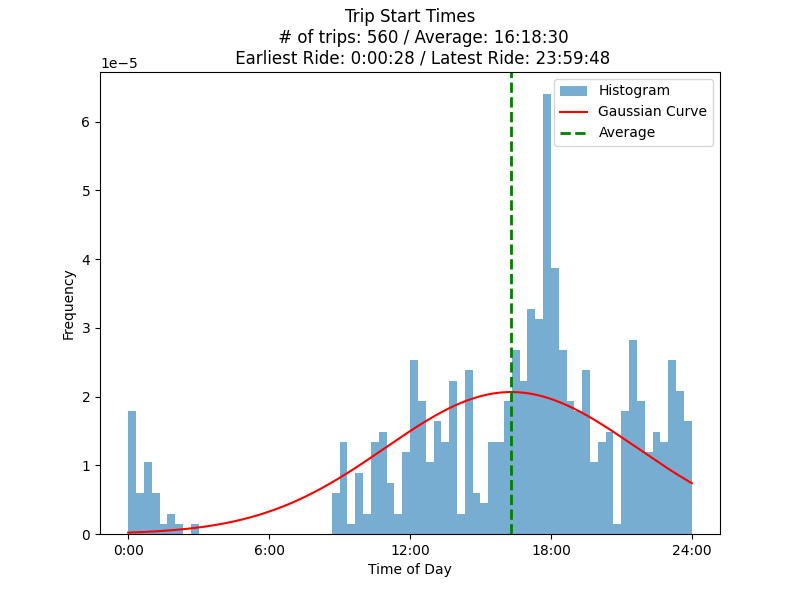
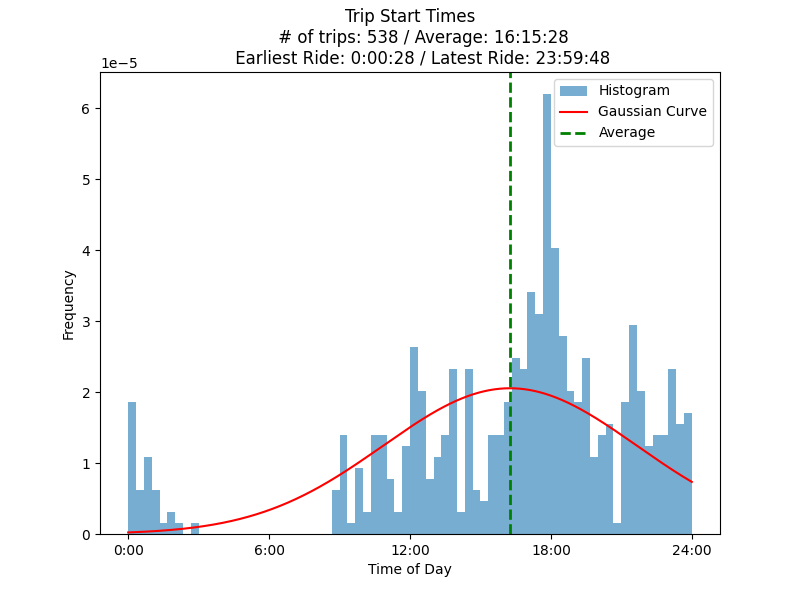
Reorganized the present_data file and cost calculations now account for the added cost of ebike rides

diff --git a/Outputs/combined_heatmap_map.html b/Outputs/combined_heatmap_map.html
@@ -25,7 +25,7 @@
             <meta name="viewport" content="width=device-width,
                 initial-scale=1.0, maximum-scale=1.0, user-scalable=no" />
             <style>
-                #map_fb3a0c0f109c157dedca00d0e194b6b5 {
+                #map_df10dd8c4897b309f26622da82e774a0 {
                     position: relative;
                     width: 100.0%;
                     height: 100.0%;
@@ -40,14 +40,14 @@
 <body>
     
     
-            <div class="folium-map" id="map_fb3a0c0f109c157dedca00d0e194b6b5" ></div>
+            <div class="folium-map" id="map_df10dd8c4897b309f26622da82e774a0" ></div>
         
 </body>
 <script>
     
     
-            var map_fb3a0c0f109c157dedca00d0e194b6b5 = L.map(
-                "map_fb3a0c0f109c157dedca00d0e194b6b5",
+            var map_df10dd8c4897b309f26622da82e774a0 = L.map(
+                "map_df10dd8c4897b309f26622da82e774a0",
                 {
                     center: [43.653339189811796, -79.36496897399171],
                     crs: L.CRS.EPSG3857,
@@ -61,16 +61,16 @@
 
         
     
-            var tile_layer_54c983141e580d4cc1b5f8ba8b19c42b = L.tileLayer(
+            var tile_layer_e388a10426aa7edf72e822d2c266f63f = L.tileLayer(
                 "https://{s}.tile.openstreetmap.org/{z}/{x}/{y}.png",
                 {"attribution": "Data by \u0026copy; \u003ca target=\"_blank\" href=\"http://openstreetmap.org\"\u003eOpenStreetMap\u003c/a\u003e, under \u003ca target=\"_blank\" href=\"http://www.openstreetmap.org/copyright\"\u003eODbL\u003c/a\u003e.", "detectRetina": false, "maxNativeZoom": 18, "maxZoom": 18, "minZoom": 0, "noWrap": false, "opacity": 1, "subdomains": "abc", "tms": false}
-            ).addTo(map_fb3a0c0f109c157dedca00d0e194b6b5);
+            ).addTo(map_df10dd8c4897b309f26622da82e774a0);
         
     
-            var heat_map_b7bea53586974027c22b7d22a11fb946 = L.heatLayer(
-                [[43.653339189811796, -79.36496897399171, 21], [43.6572018, -79.3743738, 46], [43.6541862, -79.3652666, 20], [43.6466792, -79.3827709, 43], [43.6620697, -79.3668149, 10], [43.6505369, -79.377921, 296], [43.669115, -79.3793807, 2], [43.65690292756406, -79.37854144306614, 2], [43.6628854, -79.3835168, 2], [43.66611012212478, -79.40667964746912, 3], [43.6390011, -79.4008379, 11], [43.6641536, -79.3678238, 4], [43.648991509352406, -79.37863025118989, 5], [43.65240097833613, -79.36738658196664, 9], [51.5283706, -0.1157698, 3], [43.64516208005284, -79.36546389057112, 2], [43.63266385, -79.3242128314069, 8], [43.66874924814692, -79.29138409914165, 2], [43.6551426, -79.3659375, 15], [34.7529385, -79.489493, 6], [43.636393749999996, -79.41986097422762, 2], [43.6518605, -79.3659319, 16], [43.63739613451603, -79.40612171600311, 117], [43.6348661579098, -79.40907311509858, 1], [43.66432575, -79.40281505, 129], [43.65013976200553, -79.38611012416523, 7], [43.65819629206575, -79.37237783154258, 1], [43.644871753471605, -79.40304417522952, 2], [43.6394636, -79.383704, 1], [43.650449871107995, -79.38457274639377, 2], [43.6658944, -79.4010004, 3], [54.5833187, -0.9720134, 21], [43.6499931, -79.3912123, 3], [43.64099114188913, -79.38776886173602, 3], [43.639157, -79.3996475, 13], [43.6365828, -79.4001581, 18], [34.0560576, -118.23625350485408, 3], [43.6626555, -79.3766333, 4], [43.64854585487397, -79.38090593290008, 16], [43.6501395, -79.3725329, 7], [43.655548, -79.3835122, 8], [43.645224830874064, -79.38319791722124, 4], [43.6552868, -79.3805856, 15], [43.64873517436065, -79.37961624630012, 4], [43.6414535, -79.4145602, 4], [43.66340035, -79.40217507486187, 21], [43.667122750000004, -79.3995476, 8], [43.6623765, -79.3817285, 4], [43.6692297, -79.3876861, 1], [43.64118243343749, -79.3768608743376, 4], [43.6453549, -79.4125613, 1], [43.661366, -79.378982, 2], [43.6637002, -79.3870773, 1], [43.64902635, -79.3954413, 1], [-45.8605135, 170.5112471, 1], [43.6527944, -79.3779172, 4], [43.6520037, -79.377527, 13], [43.251678299999995, -79.8514515108541, 15], [43.6444862, -79.39967139999999, 5], [43.6658944, -79.4010004, 4], [43.6526421, -79.374142, 2], [43.90674, -78.8164141, 1], [43.64161246574678, -79.3754182841772, 1], [43.64172871936933, -79.37709286336468, 4], [43.66613335, -79.37366146529753, 1], [43.66045454260344, -79.38550593841289, 2], [43.65493557358157, -79.39869213994943, 1], [43.638155708522774, -79.3975186737966, 6], [44.5808971, -79.8723842, 3], [43.65611690458023, -79.38161080753405, 1], [43.6501014, -79.3964539, 3], [43.64996315, -79.37399005, 5], [43.641767, -79.396077, 3], [43.6576943, -79.39551007539433, 2], [43.6472034, -79.3799642, 7], [43.6642354, -79.3982272, 2], [43.660438420267894, -79.39693272085542, 3], [43.66208615, -79.397858, 3], [43.66009523286462, -79.39868570406395, 5], [43.00477145, -81.22050520796864, 4], [43.6496399, -79.3936198, 2], [43.6548199, -79.3882736, 3], [43.63700985, -79.3437950730717, 2], [43.666616252698816, -79.30059532683305, 1], [43.67671389584629, -79.35643003310071, 2], [43.65111315, -79.39736715412994, 2], [43.63558375535192, -79.4035811953714, 4], [43.6455956, -79.39412436897669, 2], [43.66583835, -79.40501209221284, 2], [43.639874571108564, -79.39563486173606, 2], [53.7877454, -1.7514365, 2], [43.64640455, -79.39898661929963, 4], [43.66745738887322, -79.32940389141045, 1], [43.655252, -79.4188531, 1], [43.5980328, -79.5167264, 2], [43.64140372780608, -79.39319906173591, 1], [43.6379645, -79.3874561, 1], [43.6465302, -79.39764436661751, 1], [43.63916584218743, -79.41141587522984, 1], [43.65748307629533, -79.3810135942689, 3], [43.6703553, -79.3869414, 1], [43.6559995, -79.3705289, 1], [43.65646866092935, -79.38791808040006, 2], [43.65393453375615, -79.3983147057624, 1], [43.6546438, -79.3697278, 1], [43.6489719, -79.385741, 5], [43.65267522851995, -79.37409513697031, 1], [-39.6405566, 176.8526142, 1], [47.6077404, -122.3359401, 2], [43.64163506354045, -79.3809951194067, 1], [43.6465631, -79.4067831, 2], [43.65532958729307, -79.39185752239844, 3], [43.6699553, -79.2976701, 1], [44.8303203, -87.399019, 1]],
+            var heat_map_fb9e11d3337d0bf254588049f76b3454 = L.heatLayer(
+                [[43.653339189811796, -79.36496897399171, 21], [43.6572018, -79.3743738, 44], [43.6541862, -79.3652666, 20], [43.6466792, -79.3827709, 42], [43.6620697, -79.3668149, 10], [43.65341869886721, -79.36650162714241, 110], [43.669115, -79.3793807, 2], [43.65690292756406, -79.37854144306614, 2], [43.6628854, -79.3835168, 2], [43.66611012212478, -79.40667964746912, 3], [43.6390011, -79.4008379, 11], [43.6641536, -79.3678238, 4], [43.648991509352406, -79.37863025118989, 5], [43.65240097833613, -79.36738658196664, 9], [51.5283706, -0.1157698, 3], [43.64516208005284, -79.36546389057112, 2], [43.63266385, -79.3242128314069, 8], [43.66874924814692, -79.29138409914165, 2], [43.6551426, -79.3659375, 15], [34.7529385, -79.489493, 6], [43.636393749999996, -79.41986097422762, 2], [43.6518605, -79.3659319, 16], [43.63739613451603, -79.40612171600311, 110], [43.6348661579098, -79.40907311509858, 1], [43.66432575, -79.40281505, 110], [43.65013976200553, -79.38611012416523, 7], [43.65819629206575, -79.37237783154258, 1], [43.644871753471605, -79.40304417522952, 2], [43.6394636, -79.383704, 1], [43.650449871107995, -79.38457274639377, 2], [43.6640665, -79.4002692, 3], [54.5833187, -0.9720134, 21], [43.6499931, -79.3912123, 2], [43.64099114188913, -79.38776886173602, 3], [43.639157, -79.3996475, 13], [43.6365828, -79.4001581, 18], [34.0560576, -118.23625350485408, 2], [43.6626555, -79.3766333, 4], [43.64854585487397, -79.38090593290008, 16], [43.6501395, -79.3725329, 7], [43.655548, -79.3835122, 6], [43.645224830874064, -79.38319791722124, 4], [43.6552868, -79.3805856, 15], [43.64873517436065, -79.37961624630012, 4], [43.6414535, -79.4145602, 4], [43.6628094, -79.40204431192383, 16], [43.667122750000004, -79.3995476, 8], [43.6623765, -79.3817285, 4], [43.6692297, -79.3876861, 1], [43.64118243343749, -79.3768608743376, 4], [43.6453549, -79.4125613, 1], [43.661366, -79.378982, 2], [43.6637002, -79.3870773, 1], [43.64902635, -79.3954413, 1], [-45.8605135, 170.5112471, 1], [43.6527944, -79.3779172, 4], [43.6535163, -79.3685236, 13], [43.6515807, -79.3776002, 15], [43.6444862, -79.39967139999999, 5], [43.6658944, -79.4010004, 4], [43.6526421, -79.374142, 2], [43.651419, -79.37029111995278, 1], [43.64161246574678, -79.3754182841772, 1], [43.64172871936933, -79.37709286336468, 4], [43.66613335, -79.37366146529753, 1], [43.66045454260344, -79.38550593841289, 2], [43.65493557358157, -79.39869213994943, 1], [43.638155708522774, -79.3975186737966, 6], [44.5796932, -79.875092, 3], [43.65611690458023, -79.38161080753405, 1], [43.6501014, -79.3964539, 3], [43.64996315, -79.37399005, 5], [43.641767, -79.396077, 3], [43.6576943, -79.39551007539433, 2], [43.6472034, -79.3799642, 7], [43.6642354, -79.3982272, 2], [43.660438420267894, -79.39693272085542, 3], [43.66208615, -79.397858, 3], [43.66009523286462, -79.39868570406395, 5], [43.00477145, -81.22050520796864, 4], [43.6496399, -79.3936198, 1], [43.6548199, -79.3882736, 3], [43.63700985, -79.3437950730717, 2], [43.666616252698816, -79.30059532683305, 1], [43.67671389584629, -79.35643003310071, 2], [43.65111315, -79.39736715412994, 2], [43.63558375535192, -79.4035811953714, 4], [43.6455956, -79.39412436897669, 2], [43.66583835, -79.40501209221284, 2], [43.66745738887322, -79.32940389141045, 1], [43.655252, -79.4188531, 1], [43.5980328, -79.5167264, 2], [43.64140372780608, -79.39319906173591, 1], [43.6379645, -79.3874561, 1], [43.6465302, -79.39764436661751, 1], [43.63916584218743, -79.41141587522984, 1], [43.65748307629533, -79.3810135942689, 3], [43.6703553, -79.3869414, 1], [43.6559995, -79.3705289, 1], [43.65646866092935, -79.38791808040006, 2], [43.65393453375615, -79.3983147057624, 1], [43.6546438, -79.3697278, 1], [43.6489719, -79.385741, 5], [43.65267522851995, -79.37409513697031, 1], [-39.6405566, 176.8526142, 1], [47.6077404, -122.3359401, 2], [43.64163506354045, -79.3809951194067, 1], [43.6465631, -79.4067831, 2], [43.65532958729307, -79.39185752239844, 3], [43.6699553, -79.2976701, 1], [44.8303203, -87.399019, 1]],
                 {"blur": 15, "maxZoom": 18, "minOpacity": 0.5, "radius": 25}
-            ).addTo(map_fb3a0c0f109c157dedca00d0e194b6b5);
+            ).addTo(map_df10dd8c4897b309f26622da82e774a0);
         
 </script>
 </html>

diff --git a/Outputs/end_heatmap_map.html b/Outputs/end_heatmap_map.html
@@ -25,7 +25,7 @@
             <meta name="viewport" content="width=device-width,
                 initial-scale=1.0, maximum-scale=1.0, user-scalable=no" />
             <style>
-                #map_82e9ceabed33051a61551133472e41fa {
+                #map_d43fd230556790ddaa0819c77ac069cc {
                     position: relative;
                     width: 100.0%;
                     height: 100.0%;
@@ -40,14 +40,14 @@
 <body>
     
     
-            <div class="folium-map" id="map_82e9ceabed33051a61551133472e41fa" ></div>
+            <div class="folium-map" id="map_d43fd230556790ddaa0819c77ac069cc" ></div>
         
 </body>
 <script>
     
     
-            var map_82e9ceabed33051a61551133472e41fa = L.map(
-                "map_82e9ceabed33051a61551133472e41fa",
+            var map_d43fd230556790ddaa0819c77ac069cc = L.map(
+                "map_d43fd230556790ddaa0819c77ac069cc",
                 {
                     center: [43.6572018, -79.3743738],
                     crs: L.CRS.EPSG3857,
@@ -61,16 +61,16 @@
 
         
     
-            var tile_layer_a44e6a2d659c35877664bb66359255e7 = L.tileLayer(
+            var tile_layer_5a04c58d4dc0598156fb5b9c82450992 = L.tileLayer(
                 "https://{s}.tile.openstreetmap.org/{z}/{x}/{y}.png",
                 {"attribution": "Data by \u0026copy; \u003ca target=\"_blank\" href=\"http://openstreetmap.org\"\u003eOpenStreetMap\u003c/a\u003e, under \u003ca target=\"_blank\" href=\"http://www.openstreetmap.org/copyright\"\u003eODbL\u003c/a\u003e.", "detectRetina": false, "maxNativeZoom": 18, "maxZoom": 18, "minZoom": 0, "noWrap": false, "opacity": 1, "subdomains": "abc", "tms": false}
-            ).addTo(map_82e9ceabed33051a61551133472e41fa);
+            ).addTo(map_d43fd230556790ddaa0819c77ac069cc);
         
     
-            var heat_map_d1b85087f28c23505af0d500c2ff7064 = L.heatLayer(
-                [[43.6572018, -79.3743738, 26], [43.653339189811796, -79.36496897399171, 7], [43.6466792, -79.3827709, 16], [43.6505369, -79.377921, 138], [43.6620697, -79.3668149, 5], [43.66745738887322, -79.32940389141045, 1], [43.64854585487397, -79.38090593290008, 14], [54.5833187, -0.9720134, 9], [43.65690292756406, -79.37854144306614, 1], [43.6628854, -79.3835168, 1], [43.66611012212478, -79.40667964746912, 2], [43.6390011, -79.4008379, 7], [43.63739613451603, -79.40612171600311, 67], [43.6641536, -79.3678238, 2], [43.6541862, -79.3652666, 11], [43.648991509352406, -79.37863025118989, 3], [51.5283706, -0.1157698, 2], [43.64516208005284, -79.36546389057112, 1], [43.63266385, -79.3242128314069, 4], [43.66874924814692, -79.29138409914165, 1], [43.655252, -79.4188531, 1], [43.6518605, -79.3659319, 13], [34.7529385, -79.489493, 2], [43.5980328, -79.5167264, 2], [43.65240097833613, -79.36738658196664, 7], [43.6472034, -79.3799642, 4], [43.64140372780608, -79.39319906173591, 1], [43.66432575, -79.40281505, 48], [43.65013976200553, -79.38611012416523, 6], [43.6379645, -79.3874561, 1], [43.650449871107995, -79.38457274639377, 1], [43.6465302, -79.39764436661751, 1], [43.6499931, -79.3912123, 1], [43.66340035, -79.40217507486187, 8], [43.6365828, -79.4001581, 11], [43.6552868, -79.3805856, 7], [43.639157, -79.3996475, 9], [34.0560576, -118.23625350485408, 2], [43.6626555, -79.3766333, 1], [43.6501395, -79.3725329, 4], [43.63558375535192, -79.4035811953714, 2], [43.6520037, -79.377527, 12], [43.63916584218743, -79.41141587522984, 1], [43.6551426, -79.3659375, 11], [43.645224830874064, -79.38319791722124, 1], [43.64873517436065, -79.37961624630012, 3], [43.6414535, -79.4145602, 2], [43.65748307629533, -79.3810135942689, 3], [43.661366, -79.378982, 1], [43.6548199, -79.3882736, 1], [43.6527944, -79.3779172, 1], [43.6703553, -79.3869414, 1], [43.64118243343749, -79.3768608743376, 2], [43.6559995, -79.3705289, 1], [43.66208615, -79.397858, 2], [43.6444862, -79.39967139999999, 1], [43.6658944, -79.4010004, 2], [43.65646866092935, -79.38791808040006, 2], [43.6623765, -79.3817285, 1], [43.65393453375615, -79.3983147057624, 1], [43.6526421, -79.374142, 1], [43.6546438, -79.3697278, 1], [43.6489719, -79.385741, 5], [43.65267522851995, -79.37409513697031, 1], [-39.6405566, 176.8526142, 1], [43.251678299999995, -79.8514515108541, 5], [43.64996315, -79.37399005, 3], [43.64172871936933, -79.37709286336468, 1], [43.66045454260344, -79.38550593841289, 1], [43.6501014, -79.3964539, 2], [43.638155708522774, -79.3975186737966, 3], [47.6077404, -122.3359401, 2], [43.641767, -79.396077, 1], [43.64163506354045, -79.3809951194067, 1], [43.6576943, -79.39551007539433, 1], [43.6642354, -79.3982272, 1], [43.66009523286462, -79.39868570406395, 3], [43.660438420267894, -79.39693272085542, 1], [43.00477145, -81.22050520796864, 2], [43.6465631, -79.4067831, 2], [43.655548, -79.3835122, 6], [43.65532958729307, -79.39185752239844, 3], [43.63700985, -79.3437950730717, 1], [43.6699553, -79.2976701, 1], [43.67671389584629, -79.35643003310071, 1], [43.667122750000004, -79.3995476, 1], [43.65111315, -79.39736715412994, 1], [44.5808971, -79.8723842, 1], [43.6455956, -79.39412436897669, 1], [44.8303203, -87.399019, 1], [43.66583835, -79.40501209221284, 1], [43.639874571108564, -79.39563486173606, 1], [43.6496399, -79.3936198, 1], [53.7877454, -1.7514365, 1], [43.64640455, -79.39898661929963, 2]],
+            var heat_map_9a840321f54e9ec2ed61c42191d7b24b = L.heatLayer(
+                [[43.6572018, -79.3743738, 25], [43.653339189811796, -79.36496897399171, 7], [43.6466792, -79.3827709, 16], [43.65341869886721, -79.36650162714241, 41], [43.6620697, -79.3668149, 5], [43.66745738887322, -79.32940389141045, 1], [43.64854585487397, -79.38090593290008, 14], [54.5833187, -0.9720134, 9], [43.65690292756406, -79.37854144306614, 1], [43.6628854, -79.3835168, 1], [43.66611012212478, -79.40667964746912, 2], [43.6390011, -79.4008379, 7], [43.63739613451603, -79.40612171600311, 41], [43.6641536, -79.3678238, 2], [43.6541862, -79.3652666, 11], [43.648991509352406, -79.37863025118989, 3], [51.5283706, -0.1157698, 2], [43.64516208005284, -79.36546389057112, 1], [43.63266385, -79.3242128314069, 4], [43.66874924814692, -79.29138409914165, 1], [43.655252, -79.4188531, 1], [43.6518605, -79.3659319, 13], [34.7529385, -79.489493, 2], [43.5980328, -79.5167264, 2], [43.65240097833613, -79.36738658196664, 7], [43.6472034, -79.3799642, 4], [43.64140372780608, -79.39319906173591, 1], [43.66432575, -79.40281505, 41], [43.65013976200553, -79.38611012416523, 6], [43.6379645, -79.3874561, 1], [43.650449871107995, -79.38457274639377, 1], [43.6465302, -79.39764436661751, 1], [43.6499931, -79.3912123, 1], [43.6628094, -79.40204431192383, 6], [43.6365828, -79.4001581, 11], [43.6552868, -79.3805856, 7], [43.639157, -79.3996475, 9], [34.0560576, -118.23625350485408, 1], [43.6626555, -79.3766333, 1], [43.6501395, -79.3725329, 4], [43.63558375535192, -79.4035811953714, 2], [43.6535163, -79.3685236, 12], [43.63916584218743, -79.41141587522984, 1], [43.6551426, -79.3659375, 11], [43.645224830874064, -79.38319791722124, 1], [43.64873517436065, -79.37961624630012, 3], [43.6414535, -79.4145602, 2], [43.65748307629533, -79.3810135942689, 3], [43.661366, -79.378982, 1], [43.6548199, -79.3882736, 1], [43.6527944, -79.3779172, 1], [43.6703553, -79.3869414, 1], [43.64118243343749, -79.3768608743376, 2], [43.6559995, -79.3705289, 1], [43.66208615, -79.397858, 2], [43.6444862, -79.39967139999999, 1], [43.6658944, -79.4010004, 2], [43.65646866092935, -79.38791808040006, 2], [43.6623765, -79.3817285, 1], [43.65393453375615, -79.3983147057624, 1], [43.6526421, -79.374142, 1], [43.6546438, -79.3697278, 1], [43.6489719, -79.385741, 5], [43.65267522851995, -79.37409513697031, 1], [-39.6405566, 176.8526142, 1], [43.6515807, -79.3776002, 5], [43.64996315, -79.37399005, 3], [43.64172871936933, -79.37709286336468, 1], [43.66045454260344, -79.38550593841289, 1], [43.6501014, -79.3964539, 2], [43.638155708522774, -79.3975186737966, 3], [47.6077404, -122.3359401, 2], [43.641767, -79.396077, 1], [43.64163506354045, -79.3809951194067, 1], [43.6576943, -79.39551007539433, 1], [43.6642354, -79.3982272, 1], [43.66009523286462, -79.39868570406395, 3], [43.660438420267894, -79.39693272085542, 1], [43.00477145, -81.22050520796864, 2], [43.6465631, -79.4067831, 2], [43.655548, -79.3835122, 4], [43.65532958729307, -79.39185752239844, 3], [43.63700985, -79.3437950730717, 1], [43.6699553, -79.2976701, 1], [43.67671389584629, -79.35643003310071, 1], [43.667122750000004, -79.3995476, 1], [43.65111315, -79.39736715412994, 1], [44.5796932, -79.875092, 1], [43.6455956, -79.39412436897669, 1], [44.8303203, -87.399019, 1], [43.66583835, -79.40501209221284, 1]],
                 {"blur": 15, "maxZoom": 18, "minOpacity": 0.5, "radius": 25}
-            ).addTo(map_82e9ceabed33051a61551133472e41fa);
+            ).addTo(map_d43fd230556790ddaa0819c77ac069cc);
         
 </script>
 </html>

diff --git a/Outputs/start_heatmap_map.html b/Outputs/start_heatmap_map.html
@@ -25,7 +25,7 @@
             <meta name="viewport" content="width=device-width,
                 initial-scale=1.0, maximum-scale=1.0, user-scalable=no" />
             <style>
-                #map_e6bedf6510bf57b1c7987c1700629d42 {
+                #map_4ccadb410343f9477c337b6fffbdf780 {
                     position: relative;
                     width: 100.0%;
                     height: 100.0%;
@@ -40,14 +40,14 @@
 <body>
     
     
-            <div class="folium-map" id="map_e6bedf6510bf57b1c7987c1700629d42" ></div>
+            <div class="folium-map" id="map_4ccadb410343f9477c337b6fffbdf780" ></div>
         
 </body>
 <script>
     
     
-            var map_e6bedf6510bf57b1c7987c1700629d42 = L.map(
-                "map_e6bedf6510bf57b1c7987c1700629d42",
+            var map_4ccadb410343f9477c337b6fffbdf780 = L.map(
+                "map_4ccadb410343f9477c337b6fffbdf780",
                 {
                     center: [43.653339189811796, -79.36496897399171],
                     crs: L.CRS.EPSG3857,
@@ -61,16 +61,16 @@
 
         
     
-            var tile_layer_c00f65913809c1fc635af24a4a187588 = L.tileLayer(
+            var tile_layer_6ead993b54b9c7a00c20f8bfa0532275 = L.tileLayer(
                 "https://{s}.tile.openstreetmap.org/{z}/{x}/{y}.png",
                 {"attribution": "Data by \u0026copy; \u003ca target=\"_blank\" href=\"http://openstreetmap.org\"\u003eOpenStreetMap\u003c/a\u003e, under \u003ca target=\"_blank\" href=\"http://www.openstreetmap.org/copyright\"\u003eODbL\u003c/a\u003e.", "detectRetina": false, "maxNativeZoom": 18, "maxZoom": 18, "minZoom": 0, "noWrap": false, "opacity": 1, "subdomains": "abc", "tms": false}
-            ).addTo(map_e6bedf6510bf57b1c7987c1700629d42);
+            ).addTo(map_4ccadb410343f9477c337b6fffbdf780);
         
     
-            var heat_map_ffbd3c4d6978481d7a6b9521cddfb642 = L.heatLayer(
-                [[43.653339189811796, -79.36496897399171, 14], [43.6572018, -79.3743738, 20], [43.6541862, -79.3652666, 9], [43.6466792, -79.3827709, 27], [43.6620697, -79.3668149, 5], [43.65341869886721, -79.36650162714241, 50], [43.669115, -79.3793807, 2], [43.65690292756406, -79.37854144306614, 1], [43.6628854, -79.3835168, 1], [43.66611012212478, -79.40667964746912, 1], [43.6390011, -79.4008379, 4], [43.6641536, -79.3678238, 2], [43.648991509352406, -79.37863025118989, 2], [43.65240097833613, -79.36738658196664, 2], [51.5283706, -0.1157698, 1], [43.64516208005284, -79.36546389057112, 1], [43.63266385, -79.3242128314069, 4], [43.66874924814692, -79.29138409914165, 1], [43.6551426, -79.3659375, 4], [34.7529385, -79.489493, 4], [43.636393749999996, -79.41986097422762, 2], [43.6518605, -79.3659319, 3], [43.63739613451603, -79.40612171600311, 50], [43.6348661579098, -79.40907311509858, 1], [43.66432575, -79.40281505, 50], [43.65013976200553, -79.38611012416523, 1], [43.65819629206575, -79.37237783154258, 1], [43.644871753471605, -79.40304417522952, 2], [43.6394636, -79.383704, 1], [43.650449871107995, -79.38457274639377, 1], [43.6640665, -79.4002692, 3], [54.5833187, -0.9720134, 12], [43.6499931, -79.3912123, 2], [43.64099114188913, -79.38776886173602, 3], [43.639157, -79.3996475, 4], [43.6365828, -79.4001581, 7], [34.0560576, -118.23625350485408, 1], [43.6626555, -79.3766333, 3], [43.64854585487397, -79.38090593290008, 2], [43.6501395, -79.3725329, 3], [43.655548, -79.3835122, 2], [43.645224830874064, -79.38319791722124, 3], [43.6552868, -79.3805856, 8], [43.64873517436065, -79.37961624630012, 1], [43.6414535, -79.4145602, 2], [43.6628094, -79.40204431192383, 13], [43.667122750000004, -79.3995476, 7], [43.6623765, -79.3817285, 3], [43.6692297, -79.3876861, 1], [43.64118243343749, -79.3768608743376, 2], [43.6453549, -79.4125613, 1], [43.661366, -79.378982, 1], [43.6637002, -79.3870773, 1], [43.64902635, -79.3954413, 1], [-45.8605135, 170.5112471, 1], [43.6527944, -79.3779172, 3], [43.6535163, -79.3685236, 1], [43.6515807, -79.3776002, 10], [43.6444862, -79.39967139999999, 4], [43.6658944, -79.4010004, 2], [43.6526421, -79.374142, 1], [43.651419, -79.37029111995278, 1], [43.64161246574678, -79.3754182841772, 1], [43.64172871936933, -79.37709286336468, 3], [43.66613335, -79.37366146529753, 1], [43.66045454260344, -79.38550593841289, 1], [43.65493557358157, -79.39869213994943, 1], [43.638155708522774, -79.3975186737966, 3], [44.5796932, -79.875092, 2], [43.65611690458023, -79.38161080753405, 1], [43.6501014, -79.3964539, 1], [43.64996315, -79.37399005, 2], [43.641767, -79.396077, 2], [43.6576943, -79.39551007539433, 1], [43.6472034, -79.3799642, 3], [43.6642354, -79.3982272, 1], [43.660438420267894, -79.39693272085542, 2], [43.66208615, -79.397858, 1], [43.66009523286462, -79.39868570406395, 2], [43.00477145, -81.22050520796864, 2], [43.6496399, -79.3936198, 1], [43.6548199, -79.3882736, 2], [43.63700985, -79.3437950730717, 1], [43.666616252698816, -79.30059532683305, 1], [43.67671389584629, -79.35643003310071, 1], [43.65111315, -79.39736715412994, 1], [43.63558375535192, -79.4035811953714, 2], [43.6455956, -79.39412436897669, 1], [43.66583835, -79.40501209221284, 1], [43.639874571108564, -79.39563486173606, 1], [53.7877454, -1.7514365, 1]],
+            var heat_map_85a45093eedd8468bfd06d0dea18e24b = L.heatLayer(
+                [[43.653339189811796, -79.36496897399171, 14], [43.6572018, -79.3743738, 19], [43.6541862, -79.3652666, 9], [43.6466792, -79.3827709, 26], [43.6620697, -79.3668149, 5], [43.65341869886721, -79.36650162714241, 47], [43.669115, -79.3793807, 2], [43.65690292756406, -79.37854144306614, 1], [43.6628854, -79.3835168, 1], [43.66611012212478, -79.40667964746912, 1], [43.6390011, -79.4008379, 4], [43.6641536, -79.3678238, 2], [43.648991509352406, -79.37863025118989, 2], [43.65240097833613, -79.36738658196664, 2], [51.5283706, -0.1157698, 1], [43.64516208005284, -79.36546389057112, 1], [43.63266385, -79.3242128314069, 4], [43.66874924814692, -79.29138409914165, 1], [43.6551426, -79.3659375, 4], [34.7529385, -79.489493, 4], [43.636393749999996, -79.41986097422762, 2], [43.6518605, -79.3659319, 3], [43.63739613451603, -79.40612171600311, 47], [43.6348661579098, -79.40907311509858, 1], [43.66432575, -79.40281505, 47], [43.65013976200553, -79.38611012416523, 1], [43.65819629206575, -79.37237783154258, 1], [43.644871753471605, -79.40304417522952, 2], [43.6394636, -79.383704, 1], [43.650449871107995, -79.38457274639377, 1], [43.6640665, -79.4002692, 3], [54.5833187, -0.9720134, 12], [43.6499931, -79.3912123, 1], [43.64099114188913, -79.38776886173602, 3], [43.639157, -79.3996475, 4], [43.6365828, -79.4001581, 7], [34.0560576, -118.23625350485408, 1], [43.6626555, -79.3766333, 3], [43.64854585487397, -79.38090593290008, 2], [43.6501395, -79.3725329, 3], [43.655548, -79.3835122, 2], [43.645224830874064, -79.38319791722124, 3], [43.6552868, -79.3805856, 8], [43.64873517436065, -79.37961624630012, 1], [43.6414535, -79.4145602, 2], [43.6628094, -79.40204431192383, 10], [43.667122750000004, -79.3995476, 7], [43.6623765, -79.3817285, 3], [43.6692297, -79.3876861, 1], [43.64118243343749, -79.3768608743376, 2], [43.6453549, -79.4125613, 1], [43.661366, -79.378982, 1], [43.6637002, -79.3870773, 1], [43.64902635, -79.3954413, 1], [-45.8605135, 170.5112471, 1], [43.6527944, -79.3779172, 3], [43.6535163, -79.3685236, 1], [43.6515807, -79.3776002, 10], [43.6444862, -79.39967139999999, 4], [43.6658944, -79.4010004, 2], [43.6526421, -79.374142, 1], [43.651419, -79.37029111995278, 1], [43.64161246574678, -79.3754182841772, 1], [43.64172871936933, -79.37709286336468, 3], [43.66613335, -79.37366146529753, 1], [43.66045454260344, -79.38550593841289, 1], [43.65493557358157, -79.39869213994943, 1], [43.638155708522774, -79.3975186737966, 3], [44.5796932, -79.875092, 2], [43.65611690458023, -79.38161080753405, 1], [43.6501014, -79.3964539, 1], [43.64996315, -79.37399005, 2], [43.641767, -79.396077, 2], [43.6576943, -79.39551007539433, 1], [43.6472034, -79.3799642, 3], [43.6642354, -79.3982272, 1], [43.660438420267894, -79.39693272085542, 2], [43.66208615, -79.397858, 1], [43.66009523286462, -79.39868570406395, 2], [43.00477145, -81.22050520796864, 2], [43.6496399, -79.3936198, 1], [43.6548199, -79.3882736, 2], [43.63700985, -79.3437950730717, 1], [43.666616252698816, -79.30059532683305, 1], [43.67671389584629, -79.35643003310071, 1], [43.65111315, -79.39736715412994, 1], [43.63558375535192, -79.4035811953714, 2], [43.6455956, -79.39412436897669, 1], [43.66583835, -79.40501209221284, 1]],
                 {"blur": 15, "maxZoom": 18, "minOpacity": 0.5, "radius": 25}
-            ).addTo(map_e6bedf6510bf57b1c7987c1700629d42);
+            ).addTo(map_4ccadb410343f9477c337b6fffbdf780);
         
 </script>
 </html>

diff --git a/Present_Data.py b/Present_Data.py
@@ -18,9 +18,17 @@ def present_data():
     # print(dataset[2])
     # print(dataset[3])
 
-    # start_date ------------------------------------------------------------------------------------------------
+    # Generate Graphs and Heatmaps
+    time_of_day(dataset[0])
+    rides_per_month(dataset[0])
+    ride_durations(dataset[1])
+    station_name_start(dataset[2])
+    station_name_end(dataset[3])
+    station_name_combined(dataset[2]+dataset[3])
+
+def time_of_day(dataset):
     # Time of day
-    datetime_time = [datetime.strptime(time.strip(), '%m-%d-%Y %H:%M:%S').time() for time in dataset[0]]
+    datetime_time = [datetime.strptime(time.strip(), '%m-%d-%Y %H:%M:%S').time() for time in dataset]
     numeric_durations = [(dt.hour * 3600) + (dt.minute * 60) + dt.second for dt in datetime_time]
     mean = np.mean(numeric_durations)
     std_dev = np.std(numeric_durations)
@@ -44,16 +52,15 @@ def present_data():
     plt.xlabel('Time of Day')
     plt.ylabel('Frequency')
     plt.title('Trip Start Times\n\
-     # of trips: '+str(len(dataset[1]))+' / Average: '+str(timedelta(seconds=round(float(mean)))).split(", ")[-1]+'\n\
+     # of trips: '+str(len(dataset))+' / Average: '+str(timedelta(seconds=round(float(mean)))).split(", ")[-1]+'\n\
      Earliest Ride: '+str(timedelta(seconds=round(float(min)))).split(", ")[-1]+' / Latest Ride: '+str(timedelta(seconds=round(float(max)))).split(", ")[-1])
     plt.legend()
     plt.savefig('Outputs/TimeOfDayHist.png')
     plt.show()
     plt.close()
 
-    #--------------------------------
-    # Rides in a month
-    datetime_months = [datetime.strptime(time.strip(), '%m-%d-%Y %H:%M:%S').month for time in dataset[0]]
+def rides_per_month(dataset):
+    datetime_months = [datetime.strptime(time.strip(), '%m-%d-%Y %H:%M:%S').month for time in dataset]
     numeric_durations = datetime_months
 
     # Plot the histogram
@@ -67,14 +74,14 @@ def present_data():
 
     plt.xlabel('Months')
     plt.ylabel('Frequency')
-    plt.title('Rides per Month\n# of trips: '+str(len(dataset[1])))
+    plt.title('Rides per Month\n# of trips: '+str(len(dataset)))
     plt.legend()
     plt.savefig('Outputs/RidesPerMonthHist.png')
     plt.show()
     plt.close()
 
-    # durations ------------------------------------------------------------------------------------------------
-    datetime_durations = [datetime.strptime(time.strip(), '%H:%M:%S').time() for time in dataset[1]]
+def ride_durations(dataset):
+    datetime_durations = [datetime.strptime(time.strip(), '%H:%M:%S').time() for time in dataset]
     numeric_durations = [(dt.hour * 3600) + (dt.minute * 60) + dt.second for dt in datetime_durations]
     mean = np.mean(numeric_durations)
     std_dev = np.std(numeric_durations)
@@ -99,15 +106,15 @@ def present_data():
     plt.xlabel('Time')
     plt.ylabel('Frequency')
     plt.title('Trip Durations\n\
-     # of trips: '+str(len(dataset[1]))+' / Total Ride Time: '+total+' / Average: '+str(timedelta(seconds=round(float(mean)))).split(", ")[-1]+'\n\
+     # of trips: '+str(len(dataset))+' / Total Ride Time: '+total+' / Average: '+str(timedelta(seconds=round(float(mean)))).split(", ")[-1]+'\n\
      Shortest Ride: '+str(timedelta(seconds=round(float(min)))).split(", ")[-1]+' / Longest Ride: '+str(timedelta(seconds=round(float(max)))).split(", ")[-1])
     plt.legend()
     plt.savefig('Outputs/RidesDurationsHist.png')
     plt.show()
     plt.close()
 
-    # station_name_start ------------------------------------------------------------------------------------------------
-    station_counter = Counter(list(map(str.strip, dataset[2])))
+def station_name_start(dataset):
+    station_counter = Counter(list(map(str.strip, dataset)))
     locations = list(station_counter.keys())
     visit_counts = list(station_counter.values())
     z_scores = (visit_counts - np.mean(visit_counts)) / np.std(visit_counts)
@@ -131,8 +138,9 @@ def present_data():
     HeatMap(coordinates).add_to(heatmap_map)
     heatmap_map.save('Outputs/start_heatmap_map.html')
 
+def station_name_end(dataset):
     # station_name_end ------------------------------------------------------------------------------------------------
-    station_counter = Counter(list(map(str.strip, dataset[3])))
+    station_counter = Counter(list(map(str.strip, dataset)))
     locations = list(station_counter.keys())
     visit_counts = list(station_counter.values())
     z_scores = (visit_counts - np.mean(visit_counts)) / np.std(visit_counts)
@@ -156,8 +164,8 @@ def present_data():
     HeatMap(coordinates).add_to(heatmap_map)
     heatmap_map.save('Outputs/end_heatmap_map.html')
 
-    # station_name_combined ------------------------------------------------------------------------------------------------
-    station_counter = Counter(list(map(str.strip, dataset[2]+dataset[3])))
+def station_name_combined(dataset):
+    station_counter = Counter(list(map(str.strip, dataset)))
     locations = list(station_counter.keys())
     visit_counts = list(station_counter.values())
     z_scores = (visit_counts - np.mean(visit_counts)) / np.std(visit_counts)
@@ -182,4 +190,7 @@ def present_data():
     heatmap_map.save('Outputs/combined_heatmap_map.html')
 
 
-present_data()
+#-----------------------------------------------------
+# Test the code
+# present_data()
+#-----------------------------------------------------

diff --git a/Selenium_GetData.py b/Selenium_GetData.py
@@ -40,12 +40,13 @@ def selenium_getdata(username,password,startDate,endDate):
     endTime = datetime(*endDate)  # [2023, 6, 19]
     timeDelta = endTime - startTime
     iterations = timeDelta.days
-    queryWindow = 7
+    queryWindow = 7  # Days between start and end dates for the queries
 
     start_date_texts = []
     duration_texts = []
     station_name_start_texts = []
     station_name_end_texts = []
+    ride_price_texts = []
     for i in range(round(iterations/queryWindow)+1):
         startTime_field = driver.find_element(By.ID, 'date[start]')
         endTime_field = driver.find_element(By.ID, 'date[end]')
@@ -70,6 +71,8 @@ def selenium_getdata(username,password,startDate,endDate):
         station_name_start_texts = station_name_start_texts + [j.text.strip() for j in station_name_start if j.text.strip() != '' and not j.text.strip().startswith("Bike ID")]
         station_name_end = page_contents.find_all('div', class_='end-station-name-block')
         station_name_end_texts = station_name_end_texts + [j.text.strip() for j in station_name_end if j.text.strip() != '' and not j.text.strip().startswith("Price")]
+        ride_price_texts = ride_price_texts + [j.text.strip() for j in station_name_end if j.text.strip().startswith("Price")]
+
 
     driver.quit()
 
@@ -77,10 +80,12 @@ def selenium_getdata(username,password,startDate,endDate):
     print(duration_texts)
     print(station_name_start_texts)
     print(station_name_end_texts)
+    print(ride_price_texts)
     print(len(start_date_texts))
     print(len(duration_texts))
     print(len(station_name_start_texts))
     print(len(station_name_end_texts))
+    print(len(ride_price_texts))
 
     with open('list_file.txt', 'w') as file:
         file.write(', '.join(start_date_texts))
@@ -90,4 +95,8 @@ def selenium_getdata(username,password,startDate,endDate):
         file.write(', '.join(station_name_start_texts))
         file.write('\n')
         file.write(', '.join(station_name_end_texts))
+        file.write('\n')
+        file.write(', '.join(ride_price_texts))
 
+# Test
+# selenium_getdata('@gmail.com','',[2022, 6, 5],[2023, 6, 5])

diff --git a/Cost_Savings_Calculator.py b/Cost_Savings_Calculator.py
@@ -8,25 +8,30 @@ def cost_savings_calculator():
             elements = line.strip().split(',')
             dataset.append(elements)
     # print(dataset[0])
+    # print(dataset[4])
 
     datetime_time = [datetime.strptime(time.strip(), '%m-%d-%Y %H:%M:%S') for time in dataset[0]]
     numeric_durations = [(dt.year * 365*30*24*60*60) + (dt.month * 30*24*60*60) + (dt.day * 24*60*60) + (dt.hour * 60*60) + (dt.minute * 60) + dt.second for dt in datetime_time]
 
+    ebike_costs = sum([float(cost[9:]) for cost in dataset[4]])
+    print("You spent this much on ebikes: $"+str(ebike_costs))
+
     ttc_trip_cost = 3.3         # Cost of a TTC ticket
     max_connection_time = 2     # Number of our hours you can wait before you have to buy another ticket
-    bikeshare_subscription_cost = 120*1.13  # Cost of yearly subscription to Toronto Bike Share + taxes
+    bikeshare_subscription_cost = 120*1.13 + ebike_costs # Cost of yearly subscription to Toronto Bike Share + taxes + cost of ebike rides
 
     equivalent_ttc_tickets = 0
     for i in range(len(numeric_durations)-1):
-        if numeric_durations[i] < (numeric_durations[i+1] + max_connection_time*60*60):
+        if numeric_durations[i+1] > (numeric_durations[i] + max_connection_time*60*60):
             equivalent_ttc_tickets = equivalent_ttc_tickets + 1
 
     savings = (ttc_trip_cost * equivalent_ttc_tickets) - bikeshare_subscription_cost
     if savings > 0:
-        print("By using Toronto Bike Share you've saved at least " + str(savings) + "$")
+        print("By using Toronto Bike Share you've saved at least $" + str(savings))
     else:
-        print("You didn't take enough trips, you've lost " + str(savings) + "$")
+        print("You didn't take enough trips, you've lost $" + str(savings))
 
-    return(savings)
+    return([savings,ebike_costs])
 
-cost_savings_calculator()
+# Test
+# cost_savings_calculator()

diff --git a/main.py b/main.py
@@ -1,7 +1,5 @@
 import tkinter as tk
 from PIL import ImageTk, Image
-from tkinterhtml import HtmlFrame
-from html.parser import HTMLParser
 from Selenium_GetData import selenium_getdata
 from Present_Data import present_data
 from Cost_Savings_Calculator import cost_savings_calculator
@@ -30,6 +28,7 @@ def get_and_present():
 
     selenium_getdata(username,password,startDate,endDate)
     present_data()
+    costs = cost_savings_calculator()
 
     # Clear Window
     for widget in window.winfo_children():
@@ -48,7 +47,7 @@ def get_and_present():
     labelDuration = tk.Label(window, image=image_tk3)
     labelDuration.grid(row=1, column=0)
 
-    savings = "By using Toronto Bike Share you've saved at least "+str(cost_savings_calculator())+"$"
+    savings = "By using Toronto Bike Share you've saved at least "+str(costs[0])+"$"+"\nYou were charged " + str(costs[1]) + "$ for ebike rides"
     text_label = tk.Label(window, text=savings)
     text_label.grid(row=1, column=1)
 

diff --git a/README.md b/README.md
@@ -2,7 +2,7 @@
 The Bike Share website only lets you look at a limited number of past trips at a time in the history section. This automation is used to obtain your full trip history and visualize that data much more easily.
 
 # How to Use
-1- Fill the login info and start/end dates in the Selenium_GetData.py file and run. This will download all your trip data and then save it as txt file which will be used in the next steps
+1- Run the main.py function, this will open a GUI. Fill with login info and start/end dates and run. This will download all your trip data and then save it as txt file which will be used in the next steps
 
 2- Run the Present_Data.py file, this should create 3 graphs and 3 heatmaps that summarize data such as:
 
@@ -18,11 +18,13 @@ The Bike Share website only lets you look at a limited number of past trips at a
     
     2.6- (Heatmap) Where have the rides taken you
     
-3- The files should all show up in the outputs folder. The graphs as pictures and the heatmap as html that can be viewed in your browser (tested with Chrome)
+3- The files should be saved in the outputs folder. The graphs will display as pictures but the heatmaps are html and need to be viewed in your browser (tested with Chrome)
 
 # Current Objectives:
 
 - The geocoder used for the heatmap is incorrectly placing some locations in other countries. Considering how many values currently have to be hardcoded perhaps another method of obtaining the coordinates should be used.
 - ~~The heat values associated with the coordinates may not be fully lining up, need to look into that.~~ ~~The values are lining up correctly but the number of times each station is visited can range dramatically so due to the scaling used only one point is highlighted red when zooming in while all the others seem blue despite still being visited a significant number of times.~~
 - ~~A frontend UI could be interesting to add to this code, for the login info and start/end dates~~
-- ~~Add a cost savings calculation function to estimate how much money was saved by riding bikes instead of using the TTC.~~ Forgot to account for the cost of ebike rides, needs an update.
+- ~~Add a cost savings calculation function to estimate how much money was saved by riding bikes instead of using the TTC.~~ ~~Forgot to account for the cost of ebike rides, needs an update.~~
+- Add statistics about: environmental benefits / calories burned / time saved / etc.
+- Line up the bars of the histogram correctly with the x-axis in the rides per month graph
